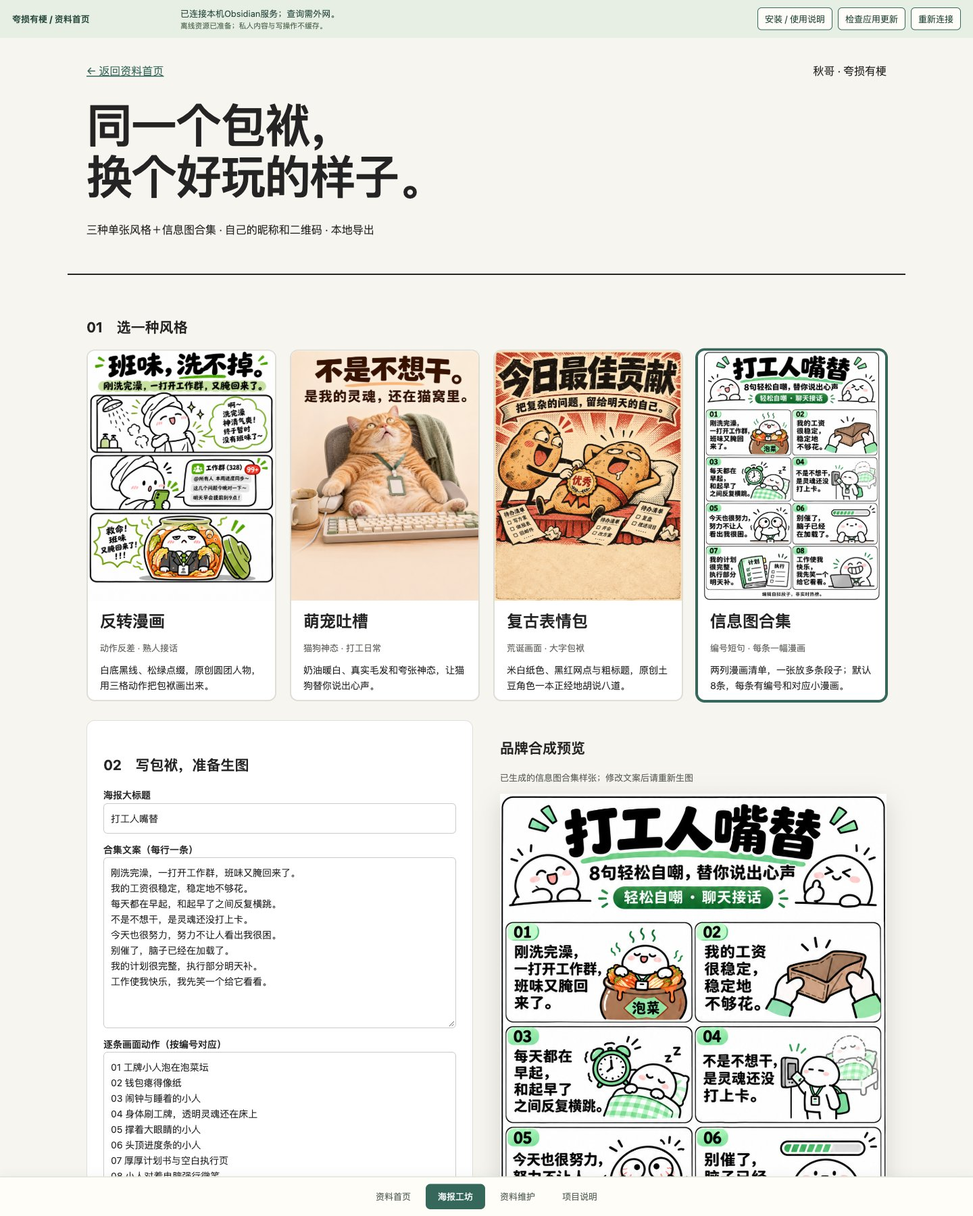
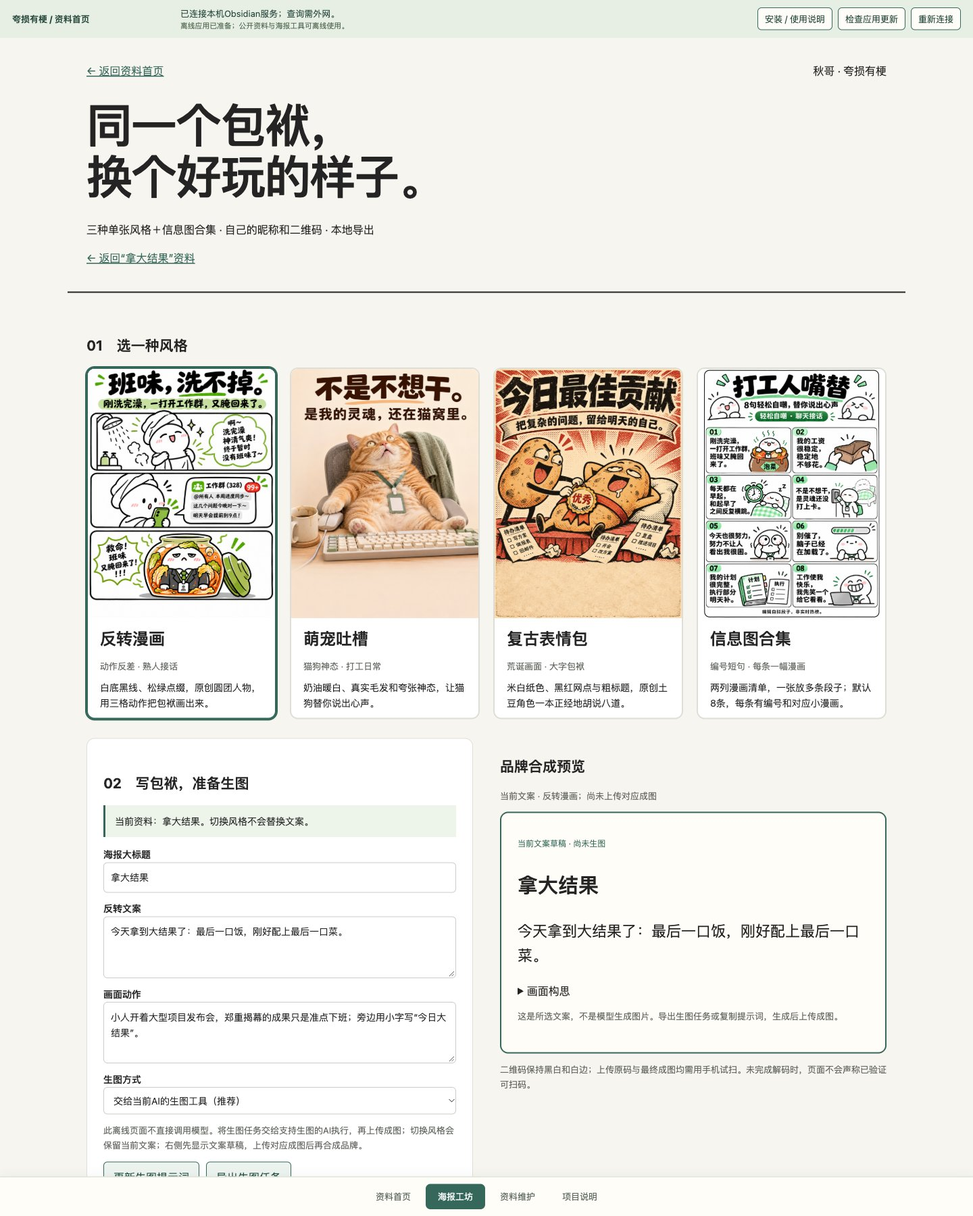
fix: preserve selected poster copy across style changes and navigation

diff --git a/create-funny-meme-cards/assets/poster-studio/studio.js b/create-funny-meme-cards/assets/poster-studio/studio.js
@@ -2,7 +2,8 @@
 'use strict';
 const $=s=>document.querySelector(s), styles=window.MEME_STYLES;
 const canvas=$('#canvas'),ctx=canvas.getContext('2d');
-let selected=styles[0],poster=null,qr=null,qrPayload=null,qrVerified=false,loadVersion=0,qrVersion=0;
+let selected=styles[0],poster=null,qr=null,qrPayload=null,qrVerified=false,loadVersion=0,qrVersion=0,activeEntryId=null,activeEntryTitle='',posterKind=null,loadingEntry=false;
+const draftKey='meme-studio-draft:'+location.pathname;
 const say=s=>{$('#message').textContent=s;};
 function image(src){return new Promise((resolve,reject)=>{const im=new Image();im.onload=()=>resolve(im);im.onerror=()=>reject(Error('图片读取失败，请换用PNG/JPEG/WebP。'));im.src=src;});}
 function readFile(file){return new Promise((resolve,reject)=>{if(!file||!['image/png','image/jpeg','image/webp'].includes(file.type))return reject(Error('请选择PNG/JPEG/WebP图片。'));if(file.size>20*1024*1024)return reject(Error('图片超过20MB，请先缩小。'));const reader=new FileReader();reader.onload=()=>resolve(reader.result);reader.onerror=()=>reject(Error('文件读取失败。'));reader.readAsDataURL(file);});}
@@ -33,18 +34,22 @@ function prompt(){
  }
  return header+`\n反转文案逐字呈现：“${$('#copy').value.trim()}”。\n画面动作：${$('#scene').value.trim()}。\n`+end;
 }
-function updatePrompt(){$('#prompt').value=prompt();if(selected.format==='collection')say(collectionError()||`合集共${collectionLines().length}条，修改文案后需重新生图。`);}
+function remember(){try{sessionStorage.setItem(draftKey,JSON.stringify({entryId:activeEntryId,entryTitle:activeEntryTitle,style:selected.id,title:$('#title').value,copy:$('#copy').value,scene:$('#scene').value}));}catch{}}
+function renderDraft(){const ready=!loadingEntry&&['title','copy','scene'].every(k=>$('#'+k).value.trim());$('#job-button').disabled=!ready;$('#prompt-button').disabled=!ready;for(const key of ['title','copy','scene'])$('#draft-'+key).textContent=$('#'+key).value;$('#draft-preview').style.borderColor=selected.accent;$('#selection-status').textContent=loadingEntry?'正在读取所选资料，请稍候…':activeEntryId?'当前资料：'+activeEntryTitle+'。切换风格不会替换文案。':'当前正在编辑文案；切换风格不会替换内容。';if(!poster){$('#draft-preview').hidden=false;$('#canvas').hidden=true;$('#preview-kind').textContent='当前文案 · '+selected.name+'；尚未上传对应成图';$('#export').disabled=true;}else if(posterKind==='sample'){$('#preview-kind').textContent='仅供参考的'+selected.name+'样张，图中文字不是当前文案；导出的是样张合成图';}else $('#preview-kind').textContent='已上传成图；请核对它与当前文案是否一致，再导出';$('#export').textContent=posterKind==='sample'?'下载样张合成 PNG':'下载品牌海报 PNG';}
+function updatePrompt(){$('#prompt').value=prompt();renderDraft();if(!loadingEntry)remember();if(selected.format==='collection')say(collectionError()||`合集共${collectionLines().length}条，修改文案后需重新生图。`);}
+function clearPoster(){loadVersion++;poster=null;posterKind=null;$('#canvas').hidden=true;$('#draft-preview').hidden=false;$('#export').disabled=true;}
+
 function download(blob,name){const a=document.createElement('a'),url=URL.createObjectURL(blob);a.href=url;a.download=name;a.click();setTimeout(()=>URL.revokeObjectURL(url),1000);}
 function jsonDownload(value,name){download(new Blob([JSON.stringify(value,null,2)],{type:'application/json'}),name);}
-async function sample(){const version=++loadVersion;poster=null;$('#export').disabled=true;try{const im=await image(window.MEME_SAMPLE_IMAGES[selected.id]);if(version!==loadVersion)return;poster=im;$('#preview-kind').textContent='已生成的'+selected.name+'样张；修改文案后请重新生图';draw();}catch(e){say(e.message);}}
-function choose(id){selected=styles.find(s=>s.id===id);for(const f of ['title','copy','scene'])$('#'+f).value=selected[f];const isCollection=selected.format==='collection';$('#copy').maxLength=isCollection?1200:140;$('#copy').rows=isCollection?10:3;$('#scene').maxLength=isCollection?1600:300;$('#scene').rows=isCollection?8:3;$('#copy-label').textContent=isCollection?'合集文案（每行一条）':'反转文案';$('#scene-label').textContent=isCollection?'逐条画面动作（按编号对应）':'画面动作';$('#collection-hint').hidden=!isCollection;document.querySelectorAll('.style').forEach(b=>b.setAttribute('aria-pressed',String(b.dataset.style===id)));updatePrompt();sample();}
+async function sample(){const version=++loadVersion;poster=null;posterKind=null;$('#export').disabled=true;try{const im=await image(window.MEME_SAMPLE_IMAGES[selected.id]);if(version!==loadVersion)return;poster=im;posterKind='sample';$('#draft-preview').hidden=true;$('#canvas').hidden=false;draw();renderDraft();}catch(e){say(e.message);renderDraft();}}
+function choose(id){selected=styles.find(s=>s.id===id)||styles[0];const isCollection=selected.format==='collection';$('#copy').maxLength=4000;$('#copy').rows=isCollection?10:3;$('#scene').maxLength=4000;$('#scene').rows=isCollection?8:3;$('#copy-label').textContent=isCollection?'合集文案（每行一条）':'反转文案';$('#scene-label').textContent=isCollection?'逐条画面动作（按编号对应）':'画面动作';$('#collection-hint').hidden=!isCollection;document.querySelectorAll('.style').forEach(b=>b.setAttribute('aria-pressed',String(b.dataset.style===selected.id)));if(posterKind!=='upload')clearPoster();else draw();updatePrompt();}
 for(const s of styles){const b=document.createElement('button');b.className='style';b.dataset.style=s.id;b.type='button';b.setAttribute('aria-pressed','false');const img=document.createElement('img');img.src=window.MEME_SAMPLE_IMAGES[s.id];img.alt=s.name+'实际生图样张';const strong=document.createElement('strong');strong.textContent=s.name;const tag=document.createElement('span');tag.textContent=s.tag;const p=document.createElement('p');p.textContent=s.description;b.append(img,strong,tag,p);b.onclick=()=>choose(s.id);$('#styles').append(b);}
 for(const id of ['title','copy','scene','provider'])$('#'+id).addEventListener('input',updatePrompt);
 for(const id of ['nickname','signature','credit'])$('#'+id).addEventListener('input',draw);
 $('#prompt-button').onclick=()=>{updatePrompt();$('#prompt').select();say('提示词已更新并选中，可复制给生图模型。');};
-$('#job-button').onclick=()=>{if(collectionError()){say(collectionError());return;}updatePrompt();jsonDownload({schema_version:'1.0',task:'generate_funny_poster',style_id:selected.id,format:selected.format||'single',aspect_ratio:selected.aspect_ratio||'3:4',items:selected.format==='collection'?collectionLines().map((text,i)=>({number:i+1,text,scene:$('#scene').value.trim().split('\n')[i]||null})):null,provider:$('#provider').value,model:'host_available_image_model',title:$('#title').value,copy:$('#copy').value,scene:$('#scene').value,prompt:$('#prompt').value,brand_composition:'after_generation',status:'not_executed'},'meme-image-request.json');say('已导出生图任务；请交给支持生图的AI执行。');};
+$('#job-button').onclick=()=>{if(collectionError()){say(collectionError());return;}updatePrompt();jsonDownload({schema_version:'1.0',task:'generate_funny_poster',source_entry_id:activeEntryId,source_title:activeEntryTitle||null,style_id:selected.id,format:selected.format||'single',aspect_ratio:selected.aspect_ratio||'3:4',items:selected.format==='collection'?collectionLines().map((text,i)=>({number:i+1,text,scene:$('#scene').value.trim().split('\n')[i]||null})):null,provider:$('#provider').value,model:'host_available_image_model',title:$('#title').value,copy:$('#copy').value,scene:$('#scene').value,prompt:$('#prompt').value,brand_composition:'after_generation',status:'not_executed'},'meme-image-request.json');say('已导出生图任务；请交给支持生图的AI执行。');};
 $('#sample-button').onclick=sample;
-$('#poster-file').onchange=async e=>{const file=e.target.files[0];if(!file)return;const version=++loadVersion;try{const im=await image(await readFile(file));if(im.width*im.height>40e6||im.width/im.height>3||im.height/im.width>4)throw Error('图片过大或比例过长，请先调整画幅。');if(version!==loadVersion)return;poster=im;$('#preview-kind').textContent='已上传自己的成图；昵称与二维码为独立合成层';draw();}catch(e){say(e.message);}};
+$('#poster-file').onchange=async e=>{const file=e.target.files[0];if(!file)return;const version=++loadVersion;try{const im=await image(await readFile(file));if(im.width*im.height>40e6||im.width/im.height>3||im.height/im.width>4)throw Error('图片过大或比例过长，请先调整画幅。');if(version!==loadVersion)return;poster=im;posterKind='upload';$('#canvas').hidden=false;$('#draft-preview').hidden=true;draw();renderDraft();}catch(e){say(e.message);}};
 $('#names-button').onclick=()=>{const key=$('#name-keyword').value.trim()||'快乐';const names=[key+'不加班',key+'有点梗','今天也'+key,key+'小分队','一口'+key];$('#names').replaceChildren();for(const name of names){const b=document.createElement('button');b.type='button';b.textContent=name.slice(0,16);b.onclick=()=>{$('#nickname').value=b.textContent;draw();};$('#names').append(b);}say('点击候选即可采用；这是本地灵感组合，未查询昵称是否重名。');};
 function clearQR(){qrVersion++;qr=null;qrPayload=null;qrVerified=false;$('#qr-url').value='';$('#qr-file').value='';$('#qr-status').textContent='未添加二维码';draw();}
 $('#qr-mode').onchange=()=>{$('#qr-upload').hidden=$('#qr-mode').value!=='upload';$('#qr-link').hidden=$('#qr-mode').value!=='link';clearQR();};
@@ -52,10 +57,13 @@ $('#qr-clear').onclick=()=>{$('#qr-mode').value='none';$('#qr-mode').dispatchEve
 $('#qr-url').oninput=()=>{qrVersion++;qr=null;qrPayload=null;qrVerified=false;$('#qr-status').textContent='链接已修改，请重新生成二维码。';draw();};
 $('#qr-generate').onclick=()=>{try{const value=$('#qr-url').value.trim(),url=new URL(value);if(!['https:','http:'].includes(url.protocol)||url.username||url.password)throw Error('请填写完整的http或https网址。');if(new TextEncoder().encode(value).length>600)throw Error('链接过长，请使用较短的目标网址。');window.qrcode.stringToBytes=s=>Array.from(new TextEncoder().encode(s));const code=window.qrcode(0,'M');code.addData(value,'Byte');code.make();const n=code.getModuleCount(),unit=6,pad=4;const c=document.createElement('canvas');c.width=c.height=(n+pad*2)*unit;const cctx=c.getContext('2d');cctx.fillStyle='white';cctx.fillRect(0,0,c.width,c.height);cctx.fillStyle='black';for(let y=0;y<n;y++)for(let x=0;x<n;x++)if(code.isDark(y,x))cctx.fillRect((x+pad)*unit,(y+pad)*unit,unit,unit);qr=c;qrPayload=value;if(decode(c)!==value)throw Error('生成二维码未通过解码，请缩短链接。');draw();say('网址二维码已生成，没有打开目标网址。');}catch(e){qr=null;qrPayload=null;qrVerified=false;draw();$('#qr-status').textContent='二维码未生成';say(e.message);}};
 $('#qr-file').onchange=async e=>{const file=e.target.files[0];if(!file)return;const version=++qrVersion;try{qr=null;qrPayload=null;draw();const im=await image(await readFile(file));if(version!==qrVersion)return;const c=imageCanvas(im),decoded=decode(c);if(!decoded)throw Error('未识别到可用二维码，请上传裁切清楚、四周留白的原码。');qr=c;qrPayload=decoded;draw();say('原码已在本地解码；未打开二维码目标。');}catch(e){qr=null;qrPayload=null;qrVerified=false;draw();$('#qr-status').textContent='二维码未识别';say(e.message);}};
-$('#export').onclick=()=>{draw();if($('#qr-mode').value!=='none'&&(!qr||!qrVerified)){say('二维码尚未通过合成解码校验。请重新上传/生成，或选择暂不添加。');return;}canvas.toBlob(blob=>{if(blob){download(blob,'夸损有梗-'+selected.id+'-品牌海报.png');say('海报已导出；含二维码时请用手机确认目标。');}else say('导出失败，请重新上传图片。');},'image/png');};
+$('#export').onclick=()=>{if(!poster){say('尚未上传对应成图；可以先导出当前文案的生图任务。');return;}draw();if($('#qr-mode').value!=='none'&&(!qr||!qrVerified)){say('二维码尚未通过合成解码校验。请重新上传/生成，或选择暂不添加。');return;}canvas.toBlob(blob=>{if(blob){download(blob,'夸损有梗-'+selected.id+'-品牌海报.png');say('海报已导出；含二维码时请用手机确认目标。');}else say('导出失败，请重新上传图片。');},'image/png');};
 $('#config').onclick=()=>{jsonDownload({schema_version:'0.2.0-preview',brand:{enabled:!!($('#nickname').value||qr),nickname:$('#nickname').value,signature:$('#signature').value,qr_mode:$('#qr-mode').value,qr_url:$('#qr-mode').value==='link'?$('#qr-url').value:null,qr_path:null,footer_mode:'bottom'},appearance:{style_id:selected.id},project_credit:{author:'秋哥',project_name:'夸损有梗',output_credit:$('#credit').checked},note:'上传二维码图片未包含于配置；请另存私人目录。'},'brand.local.json');say('个人配置已下载；当前版本暂不支持导入，重开页面需重新填写。');};
-const requested=new URLSearchParams(location.search).get('style');choose(styles.some(s=>s.id===requested)?requested:styles[0].id);
-const entryId=new URLSearchParams(location.search).get('entry');
-if(entryId){(async()=>{try{const response=await fetch('../knowledge/knowledge.json');if(!response.ok)throw Error();const pack=await response.json(),record=pack.records.find(r=>r.id===entryId);if(!record)throw Error();choose('comic');$('#title').value=record.title.slice(0,32);$('#copy').value=record.social_use.line.slice(0,140);$('#scene').value=record.editorial.visual_idea.slice(0,300);updatePrompt();const back=document.createElement('a');back.href='../../../预览.html?q='+encodeURIComponent(record.title);back.textContent='← 返回“'+record.title+'”资料';document.querySelector('header').append(back);say('已带入“'+record.title+'”的文案和画面构思；预览仍是风格样张，需要重新生图。');}catch{say('未能载入这条资料，可返回资料首页重选；当前仍可使用风格样张。');}})();}
-
+const params=new URLSearchParams(location.search),requested=params.get('style'),entryId=params.get('entry');
+let saved=null;try{saved=JSON.parse(sessionStorage.getItem(draftKey)||'null');if(!saved||!['title','copy','scene'].every(k=>typeof saved[k]==='string')||Object.values(saved).some(v=>typeof v==='string'&&v.length>20000))saved=null;}catch{}
+const resume=saved&&(!entryId||saved.entryId===entryId);
+function returnLink(){if(!activeEntryId)return;const back=document.createElement('a');back.href='../../../预览.html?q='+encodeURIComponent(activeEntryTitle);back.textContent='← 返回“'+activeEntryTitle+'”资料';document.querySelector('header').append(back);}
+if(resume){activeEntryId=saved.entryId||null;activeEntryTitle=saved.entryTitle||saved.title;for(const k of ['title','copy','scene'])$('#'+k).value=saved[k];choose(requested||saved.style);returnLink();say('已恢复当前标签页上次编辑的文案；风格变化不会覆盖内容。');}
+else if(entryId){loadingEntry=true;activeEntryId=entryId;for(const k of ['title','copy','scene']){$('#'+k).value='';$('#'+k).disabled=true;}choose(requested||styles[0].id);(async()=>{try{const response=await fetch('../knowledge/knowledge.json',{cache:'no-store'});if(!response.ok)throw Error();const pack=await response.json(),record=pack.records.find(r=>r.id===entryId);if(!record)throw Error();activeEntryTitle=record.title;$('#title').value=record.title;$('#copy').value=record.social_use.line;$('#scene').value=record.editorial.visual_idea;loadingEntry=false;updatePrompt();returnLink();say('已带入“'+record.title+'”的完整文案与画面构思。选择任何风格都保留这些内容。');}catch{loadingEntry=false;activeEntryId=null;activeEntryTitle='';renderDraft();$('#selection-status').textContent='未能读取所选资料，未套用任何模板文案。请重新连接服务或返回资料首页重选。';say('资料载入失败；可以手动填写，或返回重选。');}finally{for(const k of ['title','copy','scene'])$('#'+k).disabled=false;}})();}
+else{const initial=styles.find(s=>s.id===requested)||styles[0];for(const k of ['title','copy','scene'])$('#'+k).value=initial[k];choose(initial.id);say('当前为起步示例文案；从资料首页点“用这个做海报”可带入具体条目。');}
 })();

diff --git a/create-funny-meme-cards/assets/poster-studio/index.html b/create-funny-meme-cards/assets/poster-studio/index.html
@@ -2,9 +2,9 @@
 <html lang="zh-CN"><head><meta charset="utf-8"><meta name="viewport" content="width=device-width,initial-scale=1"><title>夸损有梗 · 海报工坊</title><link rel="stylesheet" href="studio.css"><link rel="manifest" href="../../../manifest.webmanifest"><meta name="theme-color" content="#35685b"><meta name="apple-mobile-web-app-capable" content="yes"><link rel="apple-touch-icon" href="../../../pwa/icons/apple-touch-icon.png"><link rel="icon" href="../../../pwa/icons/icon.svg" type="image/svg+xml"><link rel="stylesheet" href="../../../app-pwa.css"><script src="../../../app-pwa.js" defer></script></head><body>
 <header><a href="../../../预览.html">← 返回资料首页</a><span>秋哥 · 夸损有梗</span><h1>同一个包袱，<br>换个好玩的样子。</h1><p>三种单张风格＋信息图合集 · 自己的昵称和二维码 · 本地导出</p></header>
 <main><section aria-labelledby="styles-title"><h2 id="styles-title">01　选一种风格</h2><div id="styles" class="styles"></div></section>
-<div class="workspace"><section class="controls"><h2>02　写包袱，准备生图</h2><label>海报大标题<input id="title" maxlength="32"></label><label><span id="copy-label">反转文案</span><textarea id="copy" maxlength="140" rows="3"></textarea></label><label><span id="scene-label">画面动作</span><textarea id="scene" maxlength="300" rows="3"></textarea></label><p id="collection-hint" class="hint" hidden>每行一条段子，每条对应一幅小漫画；支持2—10条。默认8条、两列四行。超过10条请拆页，品牌区在成图后独立添加。</p><label>生图方式<select id="provider"><option value="host_tool">交给当前AI的生图工具（推荐）</option><option value="external_manual">复制提示词到其他生图模型</option></select></label><p class="hint">此离线页面不直接调用模型。将生图任务交给支持生图的AI执行，再上传成图；当前右侧展示已生成的风格样张，修改文案后需重新生图。</p><div class="actions"><button id="prompt-button">更新生图提示词</button><button id="job-button">导出生图任务</button></div><textarea id="prompt" rows="6" readonly aria-label="可复制生图提示词"></textarea><label>上传模型生成的海报<input id="poster-file" type="file" accept="image/png,image/jpeg,image/webp"></label><button id="sample-button" class="quiet">恢复当前风格样张</button>
+<div class="workspace"><section class="controls"><h2>02　写包袱，准备生图</h2><p id="selection-status" class="selection-status" role="status"></p><label>海报大标题<input id="title" maxlength="60"></label><label><span id="copy-label">反转文案</span><textarea id="copy" maxlength="140" rows="3"></textarea></label><label><span id="scene-label">画面动作</span><textarea id="scene" maxlength="300" rows="3"></textarea></label><p id="collection-hint" class="hint" hidden>每行一条段子，每条对应一幅小漫画；支持2—10条。默认8条、两列四行。超过10条请拆页，品牌区在成图后独立添加。</p><label>生图方式<select id="provider"><option value="host_tool">交给当前AI的生图工具（推荐）</option><option value="external_manual">复制提示词到其他生图模型</option></select></label><p class="hint">此离线页面不直接调用模型。将生图任务交给支持生图的AI执行，再上传成图；切换风格会保留当前文案；右侧先显示文案草稿，上传对应成图后再合成品牌。</p><div class="actions"><button id="prompt-button">更新生图提示词</button><button id="job-button">导出生图任务</button></div><textarea id="prompt" rows="6" readonly aria-label="可复制生图提示词"></textarea><label>上传模型生成的海报<input id="poster-file" type="file" accept="image/png,image/jpeg,image/webp"></label><button id="sample-button" class="quiet">查看当前风格样张（仅参考）</button>
 <h2>03　加上自己的名字</h2><label>昵称<input id="nickname" placeholder="例如：秋哥" maxlength="16"></label><label>起名关键词<input id="name-keyword" placeholder="例如：猫、打工、快乐" maxlength="8"></label><button id="names-button">不知道叫什么？给我几个灵感</button><div id="names" class="names" aria-live="polite"></div><label>一句签名<input id="signature" maxlength="28" placeholder="今天也要笑一下"></label>
 <h2>04　添加二维码</h2><label>二维码方式<select id="qr-mode"><option value="none">暂不添加</option><option value="upload">上传现成二维码（微信等）</option><option value="link">用网址生成二维码</option></select></label><div id="qr-upload" hidden><label>上传裁切好的二维码图片<input id="qr-file" type="file" accept="image/png,image/jpeg,image/webp"></label><p class="hint">请保留原码白边。个人微信码需要从微信保存；仅凭昵称或微信号不能生成添加好友码。</p></div><div id="qr-link" hidden><label>希望扫码打开的网址<input id="qr-url" type="url" placeholder="https://你的主页地址" maxlength="500"></label><button id="qr-generate">生成网址二维码</button><p class="hint">没有网址也没有现成二维码时，可以先不加码。二维码只能编码已有目标，不能凭空建立账号或个人主页。</p></div><p id="qr-status" class="hint" role="status">未添加二维码</p><button id="qr-clear" class="quiet">清除二维码与链接</button><label class="check"><input id="credit" type="checkbox" checked>海报底部保留“工具源自：秋哥 · 夸损有梗”</label><div class="actions"><button id="export" class="primary">下载品牌海报 PNG</button><button id="config">下载个人配置</button></div><p class="hint">昵称与二维码仅在当前页面内存中使用，不上传、不自动保存。下载的个人配置及作品请放在私人目录。</p><p id="message" role="status" aria-live="polite"></p></section>
-<section class="preview"><h2>品牌合成预览</h2><p id="preview-kind" class="hint">已生成样张；不随左侧文案自动变图</p><canvas id="canvas" width="1080" height="1740" aria-label="所选海报及昵称二维码预览"></canvas><p class="hint">二维码保持黑白和白边；上传原码与最终成图均需用手机试扫。未完成解码时，页面不会声称已验证可扫码。</p></section></div></main>
+<section class="preview"><h2>品牌合成预览</h2><p id="preview-kind" class="hint">已生成样张；不随左侧文案自动变图</p><div id="draft-preview" class="draft-preview" hidden><span class="draft-label">当前文案草稿 · 尚未生图</span><h3 id="draft-title"></h3><p id="draft-copy"></p><details><summary>画面构思</summary><p id="draft-scene"></p></details><p class="hint">这是所选文案，不是模型生成图片。导出生图任务或复制提示词，生成后上传成图。</p></div><canvas id="canvas" width="1080" height="1740" aria-label="所选海报及昵称二维码预览"></canvas><p class="hint">二维码保持黑白和白边；上传原码与最终成图均需用手机试扫。未完成解码时，页面不会声称已验证可扫码。</p></section></div></main>
 <footer>自拟趣味文案与AI生成样张，不是实时热榜。昵称候选是本地组合灵感，未查重。<br>二维码组件：<a href="https://github.com/kazuhikoarase/qrcode-generator">qrcode-generator</a>（MIT）与 <a href="https://github.com/cozmo/jsQR">jsQR</a>（Apache-2.0），许可证随包保留。</footer>
 <script src="vendor/qrcode.js"></script><script src="vendor/jsQR.js"></script><script src="samples.js"></script><script src="styles.js"></script><script src="studio.js"></script></body></html>

diff --git a/create-funny-meme-cards/assets/poster-studio/studio.css b/create-funny-meme-cards/assets/poster-studio/studio.css
@@ -1,1 +1,2 @@
 *{box-sizing:border-box}body{margin:0;background:#f7f5ef;color:#242424;font:16px/1.65 -apple-system,BlinkMacSystemFont,"PingFang SC",sans-serif}header,main,footer{max-width:1240px;margin:auto;padding:36px 28px}header{border-bottom:2px solid #242424}header>span{float:right}a{color:#35685b}h1{font-size:clamp(38px,5vw,68px);line-height:1.12;letter-spacing:-2px;margin:28px 0}h2{font-size:21px;margin:24px 0 16px}.styles{display:grid;grid-template-columns:repeat(4,1fr);gap:20px}.style{padding:0;background:white;border:2px solid #deddd6;text-align:left;cursor:pointer;color:inherit;overflow:hidden;border-radius:12px}.style[aria-pressed=true]{border-color:#35685b;box-shadow:0 0 0 2px #35685b}.style img{display:block;width:100%;aspect-ratio:3/4;object-fit:contain;background:#fff}.style strong,.style span,.style p{display:block;margin:10px 18px}.style strong{font-size:24px}.style span,.hint{font-size:13px;color:#646861}.style p{font-size:14px}.workspace{display:grid;grid-template-columns:1fr 1fr;gap:40px;margin-top:28px}.controls{background:white;padding:24px;border:1px solid #dfded7;border-radius:12px}label{display:block;margin:12px 0 8px;font-size:14px;font-weight:600}input,textarea,select{display:block;width:100%;border:1px solid #caccc5;padding:10px;border-radius:6px;font:inherit;font-weight:400;background:#fff;color:#242424}input[type=file]{font-size:13px}textarea{resize:vertical}button{font:inherit;padding:9px 14px;border:1px solid #35685b;border-radius:6px;background:#edf4f0;color:#244f43;cursor:pointer}button:disabled{opacity:.4;cursor:wait}.quiet{background:white;font-size:13px}.primary{background:#35685b;color:white}.actions{display:flex;gap:10px;flex-wrap:wrap;margin:14px 0}.names{display:flex;gap:8px;flex-wrap:wrap;margin:12px 0}.names button{font-size:13px}.preview{position:sticky;top:18px;align-self:start}canvas{display:block;width:100%;height:auto;background:white;box-shadow:0 12px 35px #0002}.check{display:flex;gap:10px;align-items:center}.check input{width:auto}#message{color:#35685b;font-size:14px}footer{font-size:13px;color:#666;border-top:1px solid #deddd6;margin-top:24px}[hidden]{display:none!important}@media(max-width:1000px){.styles{grid-template-columns:repeat(2,1fr)}}@media(max-width:760px){.styles{gap:9px}.style strong{font-size:17px}.style strong,.style span,.style p{margin:8px}.style p{display:none}.workspace{grid-template-columns:1fr}.preview{position:static;grid-row:1}header,main,footer{padding:22px 16px}header>span{float:none;display:block}}
+.selection-status{padding:12px 14px;background:#edf4e9;border-left:3px solid #35685b;font-size:14px;white-space:pre-wrap}.draft-preview{padding:30px 24px;border:2px solid #35685b;border-radius:12px;background:#fffdf7}.draft-label{font-size:12px;color:#35685b}.draft-preview h3{font-size:30px;line-height:1.3}.draft-preview>p:not(.hint){font-size:22px;white-space:pre-wrap}.draft-preview details p{white-space:pre-wrap}.preview #preview-kind{white-space:pre-wrap}

diff --git a/sw.js b/sw.js
@@ -1,6 +1,6 @@
 /* Generated from explicit public resources; never add private API data to this cache. */
 'use strict';
-const VERSION="9cac4bcc7a25ad0a";
+const VERSION="fac59460abc8b0af";
 const RESOURCES=["app.html", "app.css", "app-home.js", "app-pwa.js", "app-pwa.css", "offline.html", "manifest.webmanifest", "预览.html", "preview.js", "本地工作台.html", "workbench.js", "workbench.css", "pwa/icons/icon.svg", "pwa/icons/icon-192.png", "pwa/icons/icon-512.png", "pwa/icons/apple-touch-icon.png", "create-funny-meme-cards/assets/knowledge/knowledge.json", "create-funny-meme-cards/assets/knowledge/index.json", "create-funny-meme-cards/assets/knowledge/focus.json", "create-funny-meme-cards/assets/poster-studio/index.html", "create-funny-meme-cards/assets/poster-studio/studio.css", "create-funny-meme-cards/assets/poster-studio/studio.js", "create-funny-meme-cards/assets/poster-studio/styles.js", "create-funny-meme-cards/assets/poster-studio/samples.js", "create-funny-meme-cards/assets/poster-studio/vendor/qrcode.js", "create-funny-meme-cards/assets/poster-studio/vendor/jsQR.js"];
 const SCOPE=self.registration.scope;
 const PREFIX='meme-pwa:'+SCOPE+':';

diff --git a/docs/三风格海报与品牌工坊.md b/docs/三风格海报与品牌工坊.md
@@ -21,3 +21,13 @@
 ## 新增：信息图合集
 
 [进入合集模式](../create-funny-meme-cards/assets/poster-studio/index.html?style=collection)。默认8条打工日常段子，竖版9:16、两列四行，每条有编号、完整短句和对应小漫画。可逐行修改为2—10条；超过10条拆页。原有三种单张风格保留。品牌区继续独立合成，二维码不交给生图模型绘制。
+
+## 选中文案与风格切换
+
+从资料卡片“用这个做海报”进入时，完整带入名称、用法与画面构思。风格只改变画面方向和提示词，不再替换成对应模板的文案。单张切到合集仍保留原内容，合集不足2条时提示补充，不自动填入其他示例。
+
+当前文案在右侧以“尚未生图”草稿展示；风格样张需要明确点击“查看当前风格样张（仅参考）”，不会当作选中文案的成图。上传模型生成的图片后再合成昵称、二维码和导出PNG。导出的任务附带原条目ID与当前文案。
+
+标题、文案、画面与风格保留在当前标签页的sessionStorage，刷新或通过本页导航返回时可继续编辑；这不是作品历史或Obsidian持久化。昵称、二维码与上传图片仍需在离开前导出。读取条目失败会留空并明确提示，不能静默退回样例。
+
+回归：`node tools/test_studio_transfer.cjs`，覆盖完整带入、四风格切换、手动修改、导出任务、样张隔离、会话恢复、缺失条目及慢请求。

diff --git a/CHANGELOG.md b/CHANGELOG.md
@@ -2,6 +2,9 @@
 
 ## 后续改进 · 2026-11-05
 
+- 修复切换海报风格覆盖所选文案；保留完整内容和手动修改，并支持当前标签页会话恢复。
+- 尚未生图时展示当前文案草稿；风格样张改为明确的参考入口，任务导出保留原条目ID。
+
 - 增加Codex本地联网整理、手动启动与私人审核收件箱；人工通过才进入正式资料。
 - 审核支持直接改文字、意见修订、跳过与恢复，保留历史和并发冲突检查。
 - 本机按用户要求配置每周日19:00任务；仓库提供运行脚本，不自动安装定时任务。
